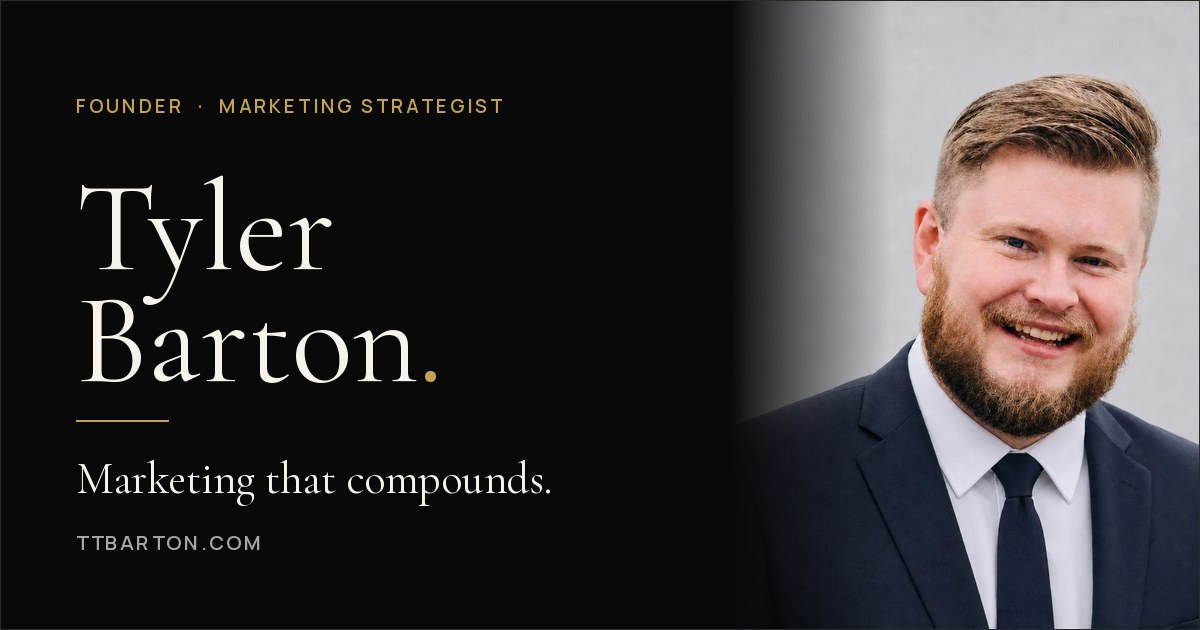
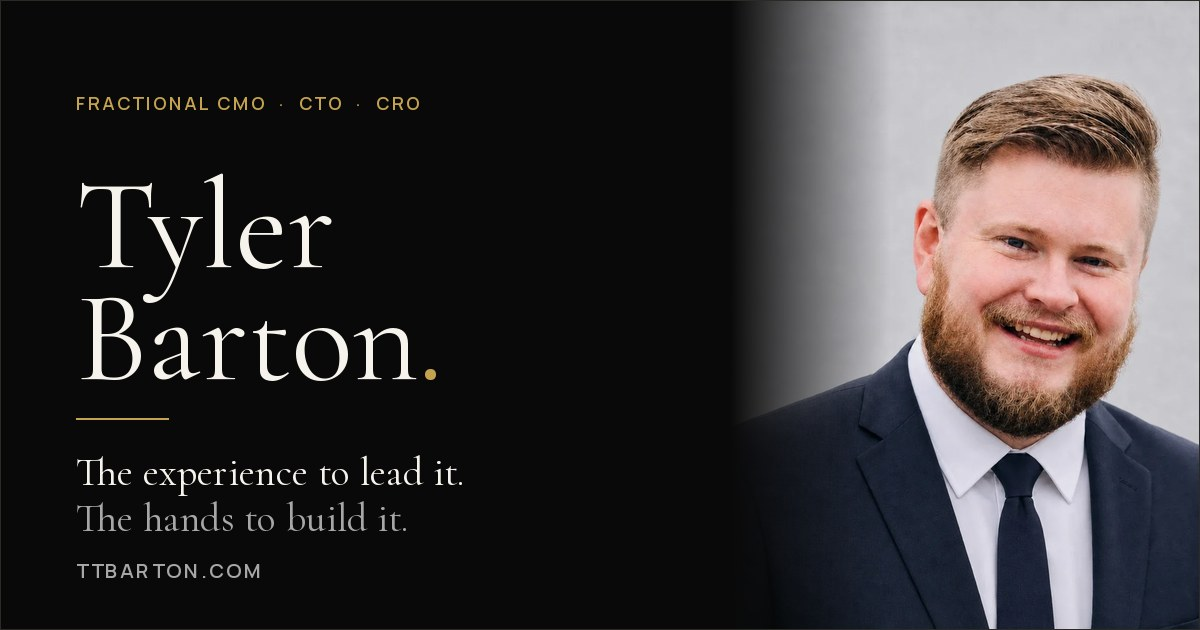
Reposition the profile as a fractional CMO / CTO / CRO
The executive profile section already matched the reference layout, so the
change here is voice, not structure. It opened with "Marketing should be an
investment that compounds" — agency copy, which read as a pitch rather than an
executive profile.

Rewritten around the fractional seat: what the CMO, CTO and CRO functions each
cover, and accountability for the number rather than the recommendation as the
distinction from consulting. The credential now leads with having held an
operating seat — owner and COO of Soulegria through a seven-figure exit,
carrying payroll and service delivery — with the agency's scale as supporting
evidence rather than the headline.

Adjacent copy that would have undercut it changed too, since the hero sits
directly above the section:
  eyebrow     Founder / Marketing Strategist / Automation Operator
              -> Fractional CMO / CTO / CRO / Operator
  statement   "Marketing that compounds. Not marketing that drains."
              -> "The experience to lead it. The hands to build it."
  description now leads with fractional leadership rather than channels
  title/meta  "Marketing Strategist & Automation Operator"
              -> "Fractional CMO, CTO & CRO"
  jobTitle in the Person schema, nav drawer footer, briefing chapter one

Social card regenerated to match the new positioning.

The consulting page still reads as service-led rather than fractional
leadership; left alone for now.
[…]

diff --git a/index.html b/index.html
@@ -3,13 +3,13 @@
 <head>
 <meta charset="utf-8">
 <meta name="viewport" content="width=device-width, initial-scale=1">
-<title>Marketing Strategist &amp; Automation Operator | Tyler Barton</title>
-<meta name="description" content="Tyler Barton is the founder of Monastic Marketing, a full-stack growth partner built on paid media, technical SEO and CRM automation. 340+ clients scaled, $24M+ in revenue generated.">
+<title>Fractional CMO, CTO &amp; CRO | Tyler Barton</title>
+<meta name="description" content="Tyler Barton is a fractional CMO, CTO and CRO for owner-led companies. Owner and COO through a seven-figure exit, founder of Monastic Marketing. Dallas-Fort Worth, Texas.">
 <link rel="canonical" href="https://ttbarton.com/">
 <meta name="robots" content="index, follow, max-image-preview:large">
 <meta property="og:type" content="website">
-<meta property="og:title" content="Marketing Strategist &amp; Automation Operator | Tyler Barton">
-<meta property="og:description" content="Tyler Barton is the founder of Monastic Marketing, a full-stack growth partner built on paid media, technical SEO and CRM automation.">
+<meta property="og:title" content="Fractional CMO, CTO &amp; CRO | Tyler Barton">
+<meta property="og:description" content="Tyler Barton is a fractional CMO, CTO and CRO for owner-led companies. Owner and COO through a seven-figure exit, founder of Monastic Marketing. Dallas-Fort Worth, Texas.">
 <meta property="og:url" content="https://ttbarton.com/">
 <meta property="og:site_name" content="Tyler Barton">
 <meta property="og:locale" content="en_US">
@@ -17,12 +17,12 @@
 <meta property="og:image:width" content="1200">
 <meta property="og:image:height" content="630">
 <meta property="og:image:type" content="image/jpeg">
-<meta property="og:image:alt" content="Tyler Barton, founder of Monastic Marketing">
+<meta property="og:image:alt" content="Tyler Barton, fractional CMO, CTO and CRO">
 <meta name="twitter:image" content="https://ttbarton.com/assets/social-profile.jpg">
-<meta name="twitter:image:alt" content="Tyler Barton, founder of Monastic Marketing">
+<meta name="twitter:image:alt" content="Tyler Barton, fractional CMO, CTO and CRO">
 <meta name="twitter:card" content="summary_large_image">
-<meta name="twitter:title" content="Marketing Strategist &amp; Automation Operator | Tyler Barton">
-<meta name="twitter:description" content="Tyler Barton is the founder of Monastic Marketing, a full-stack growth partner built on paid media, technical SEO and CRM automation.">
+<meta name="twitter:title" content="Fractional CMO, CTO &amp; CRO | Tyler Barton">
+<meta name="twitter:description" content="Tyler Barton is a fractional CMO, CTO and CRO for owner-led companies. Owner and COO through a seven-figure exit, founder of Monastic Marketing. Dallas-Fort Worth, Texas.">
 <meta name="theme-color" content="#090909">
 <link rel="icon" type="image/svg+xml" href="/favicon.svg">
 <link rel="preconnect" href="https://fonts.googleapis.com">
@@ -30,7 +30,7 @@
 <link rel="stylesheet" href="https://fonts.googleapis.com/css2?family=Cormorant+Garamond:wght@300;400&family=Manrope:wght@400;500;600&display=swap">
 <link rel="stylesheet" href="/assets/styles.css">
 <script type="application/ld+json">
-{"@context":"https://schema.org","@type":"Person","name":"Tyler Barton","url":"https://ttbarton.com/","image":"https://ttbarton.com/assets/portrait.webp","jobTitle":"Marketing Strategist","email":"Tyler@ttbarton.com","address":{"@type":"PostalAddress","addressLocality":"Dallas-Fort Worth","addressRegion":"TX","addressCountry":"US"},"worksFor":{"@type":"Organization","name":"Monastic Marketing","url":"https://monasticmarketing.com/"}}
+{"@context":"https://schema.org","@type":"Person","name":"Tyler Barton","url":"https://ttbarton.com/","image":"https://ttbarton.com/assets/portrait.webp","jobTitle":"Fractional CMO, CTO & CRO","email":"Tyler@ttbarton.com","address":{"@type":"PostalAddress","addressLocality":"Dallas-Fort Worth","addressRegion":"TX","addressCountry":"US"},"worksFor":{"@type":"Organization","name":"Monastic Marketing","url":"https://monasticmarketing.com/"}}
 </script>
 </head>
 <body id="top">
@@ -64,7 +64,7 @@
     <a href="/contact/" style="--i:8"><span>Contact</span><span aria-hidden="true">&rsaquo;</span></a>
   </nav>
   <div class="nav-bottom">
-    <span>Founder. Strategist. Operator.</span>
+    <span>Fractional CMO. CTO. CRO.</span>
     <a href="mailto:Tyler@ttbarton.com">Tyler@ttbarton.com</a>
   </div>
 </dialog>
@@ -73,10 +73,10 @@
 
   <section class="hero" aria-labelledby="hero-title">
     <div class="hero-copy">
-      <p class="eyebrow">Founder &middot; Marketing Strategist &middot; Automation Operator</p>
+      <p class="eyebrow">Fractional CMO &middot; CTO &middot; CRO &middot; Operator</p>
       <h1 id="hero-title">Tyler<br>Barton<span class="name-period">.</span></h1>
-      <p class="hero-statement">Marketing that compounds.<br>Not marketing that drains.</p>
-      <p class="hero-description">I help ambitious businesses turn paid media, technical search, and CRM automation into predictable, compounding revenue.</p>
+      <p class="hero-statement">The experience to lead it.<br>The hands to build it.</p>
+      <p class="hero-description">Fractional marketing, revenue and technology leadership for owner-led companies &mdash; and the systems that outlast the engagement.</p>
       <div class="hero-actions">
         <a class="button gold" href="/contact/">Contact now <span aria-hidden="true">&#8599;</span></a>
         <button class="briefing-button" data-open="overview">
@@ -138,10 +138,10 @@
     <div class="editorial-split">
       <h2 data-reveal>Beyond<br>the title.</h2>
       <div>
-        <p class="lead" data-reveal>Marketing should be an investment that compounds, not an expense that drains. Monastic Marketing was built on that conviction.</p>
-        <p>I founded the agency in 2018 out of frustration with vanity metrics, opaque reporting, and firms more interested in protecting a retainer than moving a client&rsquo;s revenue. What started as a reaction has become a full-stack growth partner: media buying, technical SEO, and CRM automation under one roof.</p>
-        <p>For scaling companies, that means transparent reporting, measurable financial impact, and systems that keep producing after a campaign ends. Based in Dallas&ndash;Fort Worth, Texas, serving clients across North America and beyond.</p>
-        <p>I have also sat in the operating seat myself, as owner and COO of Soulegria, a therapeutic treatment and coaching organization, through to a seven-figure exit. Running a people-heavy service business is what taught me which systems actually hold up under pressure.</p>
+        <p class="lead" data-reveal>I&rsquo;ve owned a company, led the teams inside it, and built the revenue and technology systems other companies run on.</p>
+        <p>I work as a fractional CMO, CTO and CRO &mdash; taking ownership of a function a company needs run properly but is not ready to hire for at full cost. Demand and brand as CMO. Systems, data and the technology stack as CTO. Pipeline, forecasting and revenue as CRO. The distinction from consulting is accountability: I am measured on the number, not the recommendation.</p>
+        <p>That position is earned rather than claimed. I was owner and COO of Soulegria, a therapeutic treatment and coaching organization, through a seven-figure exit &mdash; so I have carried payroll, service delivery, and the consequences of a bad quarter. I founded Monastic Marketing in 2018 and built it to 85+ employees and contractors, 340+ companies scaled, and $24M+ in client revenue generated, with the CRM and automation layer those teams run on built in-house.</p>
+        <p>Owner-led companies rarely need another vendor. They need someone who has held the seat before to build the operating system underneath the business &mdash; reporting leadership actually trusts, pipeline that does not depend on one person, a stack that talks to itself &mdash; and then to make the team capable of running it without me. Based in Dallas&ndash;Fort Worth, Texas, working with companies across North America.</p>
         <a class="text-link" href="/experience/">Explore my experience <span aria-hidden="true">&#8599;</span></a>
       </div>
     </div>
@@ -273,7 +273,7 @@
     <article class="chapter" data-chapter="0">
       <p class="chapter-label">01 / Who I am</p>
       <h2 id="overview-title">An operator&rsquo;s perspective.</h2>
-      <p>I&rsquo;m Tyler Barton, founder of Monastic Marketing. I help ambitious businesses become market leaders through data-driven marketing and automation that generates predictable, compounding revenue.</p>
+      <p>I&rsquo;m Tyler Barton. I work as a fractional CMO, CTO and CRO for owner-led companies &mdash; taking ownership of marketing, revenue or technology rather than advising from outside it. Owner and COO through a seven-figure exit; founder of Monastic Marketing.</p>
     </article>
     <article class="chapter" data-chapter="1" hidden>
       <p class="chapter-label">02 / What I&rsquo;ve built</p>

diff --git a/consulting/index.html b/consulting/index.html
@@ -16,7 +16,7 @@
 <meta property="og:image:width" content="1200">
 <meta property="og:image:height" content="630">
 <meta property="og:image:type" content="image/jpeg">
-<meta property="og:image:alt" content="Tyler Barton, founder of Monastic Marketing">
+<meta property="og:image:alt" content="Tyler Barton, fractional CMO, CTO and CRO">
 <meta name="twitter:card" content="summary_large_image">
 <meta name="twitter:image" content="https://ttbarton.com/assets/social-profile.jpg">
 <meta name="theme-color" content="#090909">

diff --git a/contact/index.html b/contact/index.html
@@ -16,7 +16,7 @@
 <meta property="og:image:width" content="1200">
 <meta property="og:image:height" content="630">
 <meta property="og:image:type" content="image/jpeg">
-<meta property="og:image:alt" content="Tyler Barton, founder of Monastic Marketing">
+<meta property="og:image:alt" content="Tyler Barton, fractional CMO, CTO and CRO">
 <meta name="twitter:card" content="summary_large_image">
 <meta name="twitter:image" content="https://ttbarton.com/assets/social-profile.jpg">
 <meta name="theme-color" content="#090909">

diff --git a/experience/index.html b/experience/index.html
@@ -16,7 +16,7 @@
 <meta property="og:image:width" content="1200">
 <meta property="og:image:height" content="630">
 <meta property="og:image:type" content="image/jpeg">
-<meta property="og:image:alt" content="Tyler Barton, founder of Monastic Marketing">
+<meta property="og:image:alt" content="Tyler Barton, fractional CMO, CTO and CRO">
 <meta name="twitter:card" content="summary_large_image">
 <meta name="twitter:image" content="https://ttbarton.com/assets/social-profile.jpg">
 <meta name="theme-color" content="#090909">
